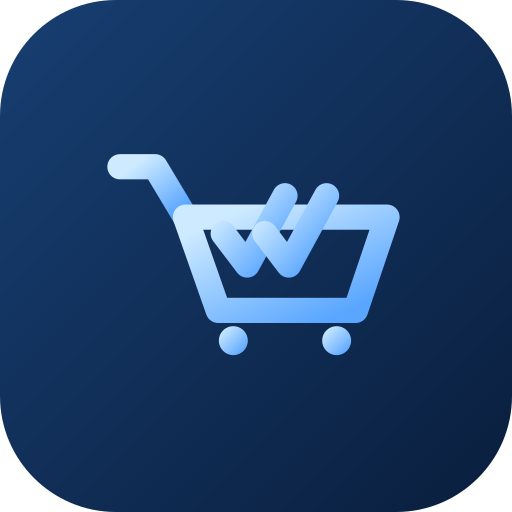
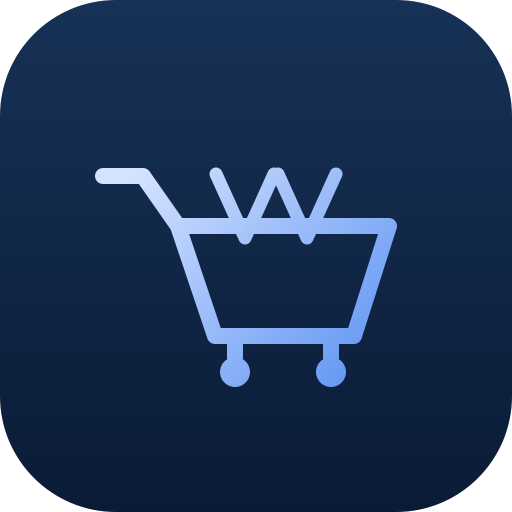
Icone novo + atalho editar no item + busca-carrinho + palette A
1) Icone redesenhado: carrinho mais alto, tracos finos, os dois V mais
   finos saindo pra cima da cesta (mais real, minimalista). Regenerado
   launcher (mipmaps) + fg/full + loja 512 + web + favicon.
3) Aba Listas: icone de editar (sell_outlined) antes da quantidade ->
   abre o editor do item (precos/mercado) direto pela lista.
4) Busca da aba Listas: lupa -> carrinho; texto "Pesquise ou adicione aqui".
2) Layout A: acento verde calibrado (menos neon). B/C vem por branch.

Changed region(s): [[0.0, 0.0312, 0.7812, 1.0]]

diff --git a/app/lib/features/listas/listas_screen.dart b/app/lib/features/listas/listas_screen.dart
@@ -2,6 +2,7 @@ import 'package:flutter/material.dart';
 import 'package:flutter/services.dart';
 import 'package:flutter_riverpod/flutter_riverpod.dart';
 
+import 'package:lista_app/features/itens/produto_editor_screen.dart';
 import 'package:lista_app/models/categoria.dart';
 import 'package:lista_app/models/item_lista.dart';
 import 'package:lista_app/models/lista.dart';
@@ -188,8 +189,8 @@ class _ListasScreenState extends ConsumerState<ListasScreen> {
                 else if (itensVisiveis.isEmpty)
                   _filtroVazio(mercadosPorId[filtro]?.nome)
                 else
-                  ..._itensAgrupados(
-                      itensVisiveis, produtosPorId, mercadosPorId, atual!),
+                  ..._itensAgrupados(itensVisiveis, produtosPorId,
+                      mercadosPorId, mercados, atual!),
               ],
             ),
           ),
@@ -291,9 +292,10 @@ class _ListasScreenState extends ConsumerState<ListasScreen> {
       onChanged: (v) => setState(() => _busca = v),
       style: const TextStyle(color: AppColors.text, fontSize: 15),
       decoration: InputDecoration(
-        hintText: 'Buscar item cadastrado ou Novo',
+        hintText: 'Pesquise ou adicione aqui',
         hintStyle: const TextStyle(color: AppColors.dim2, fontSize: 14),
-        prefixIcon: const Icon(Icons.search, color: AppColors.dim, size: 20),
+        prefixIcon:
+            const Icon(Icons.shopping_cart_outlined, color: AppColors.dim, size: 20),
         suffixIcon: _busca.isEmpty
             ? null
             : IconButton(
@@ -473,6 +475,7 @@ class _ListasScreenState extends ConsumerState<ListasScreen> {
     List<ItemLista> itens,
     Map<String, Produto> produtosPorId,
     Map<String, Mercado> mercadosPorId,
+    List<Mercado> mercados,
     Lista atual,
   ) {
     final widgets = <Widget>[];
@@ -494,8 +497,8 @@ class _ListasScreenState extends ConsumerState<ListasScreen> {
       ));
       primeiro = false;
       for (final it in grupo) {
-        widgets
-            .add(_itemRow(it, produtosPorId[it.produtoId], mercadosPorId, atual));
+        widgets.add(_itemRow(
+            it, produtosPorId[it.produtoId], mercadosPorId, mercados, atual));
       }
     }
     return widgets;
@@ -505,6 +508,7 @@ class _ListasScreenState extends ConsumerState<ListasScreen> {
     ItemLista it,
     Produto? p,
     Map<String, Mercado> mercadosPorId,
+    List<Mercado> mercados,
     Lista atual,
   ) {
     final dedicado = p?.dedicado ?? false;
@@ -587,7 +591,19 @@ class _ListasScreenState extends ConsumerState<ListasScreen> {
                   ],
                 ),
               ),
-              const SizedBox(width: 6),
+              // atalho: abre o editor do item (preços/mercado) sem ir à aba Itens
+              if (p != null)
+                IconButton(
+                  visualDensity: VisualDensity.compact,
+                  padding: EdgeInsets.zero,
+                  constraints:
+                      const BoxConstraints(minWidth: 32, minHeight: 32),
+                  tooltip: 'Editar preços/mercado',
+                  icon: const Icon(Icons.sell_outlined,
+                      size: 18, color: AppColors.dim),
+                  onPressed: () => mostrarEditorProduto(context, p, mercados),
+                ),
+              const SizedBox(width: 4),
               _stepperQtd(atual.id, it),
               const SizedBox(width: 8),
               if (!dedicado)

diff --git a/app/lib/theme/app_colors.dart b/app/lib/theme/app_colors.dart
@@ -12,8 +12,9 @@ abstract final class AppColors {
   static const dim = Color(0xFF8B93A1); // texto secundário
   static const dim2 = Color(0xFF5F6674); // texto terciário / ícones apagados
 
-  static const green = Color(0xFF33D17F); // economia / sucesso / destaque
-  static const onGreen = Color(0xFF08130C); // texto sobre verde
+  // === ACENTO (varia por layout: A=verde · B=índigo · C=âmbar) ===
+  static const green = Color(0xFF2FB672); // A — verde calibrado (menos neon)
+  static const onGreen = Color(0xFF07130C); // texto sobre o acento
   static const blue = Color(0xFF4C8DFF); // ações
   static const amber = Color(0xFFF2B84B);
   static const danger = Color(0xFFFF7A7A);
